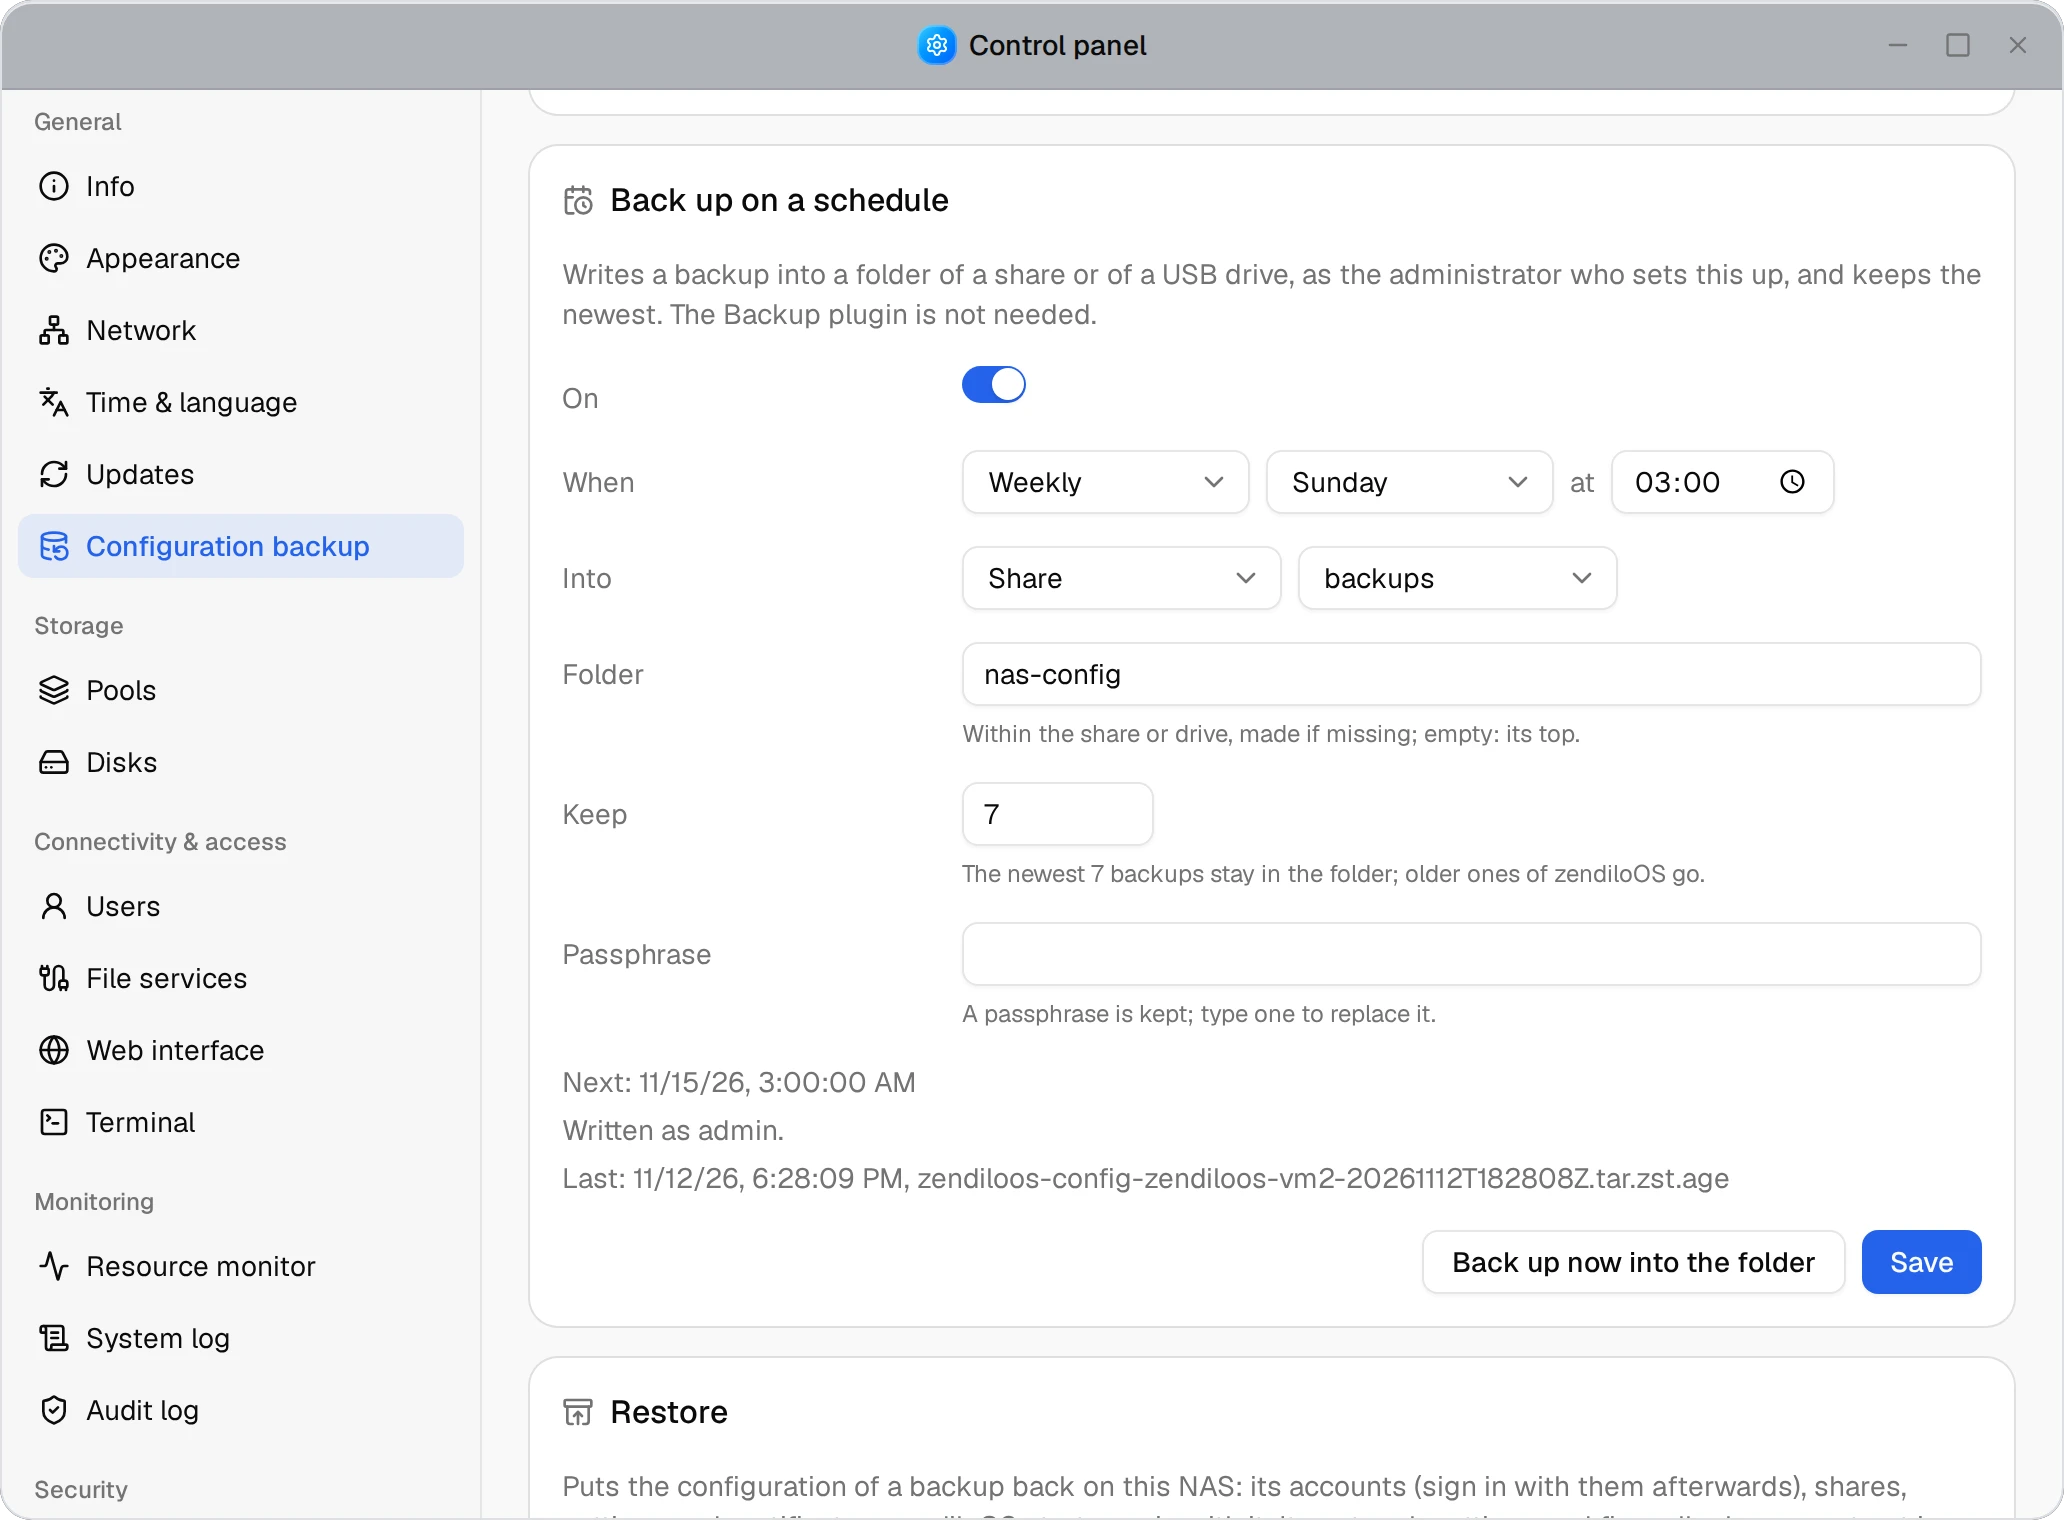
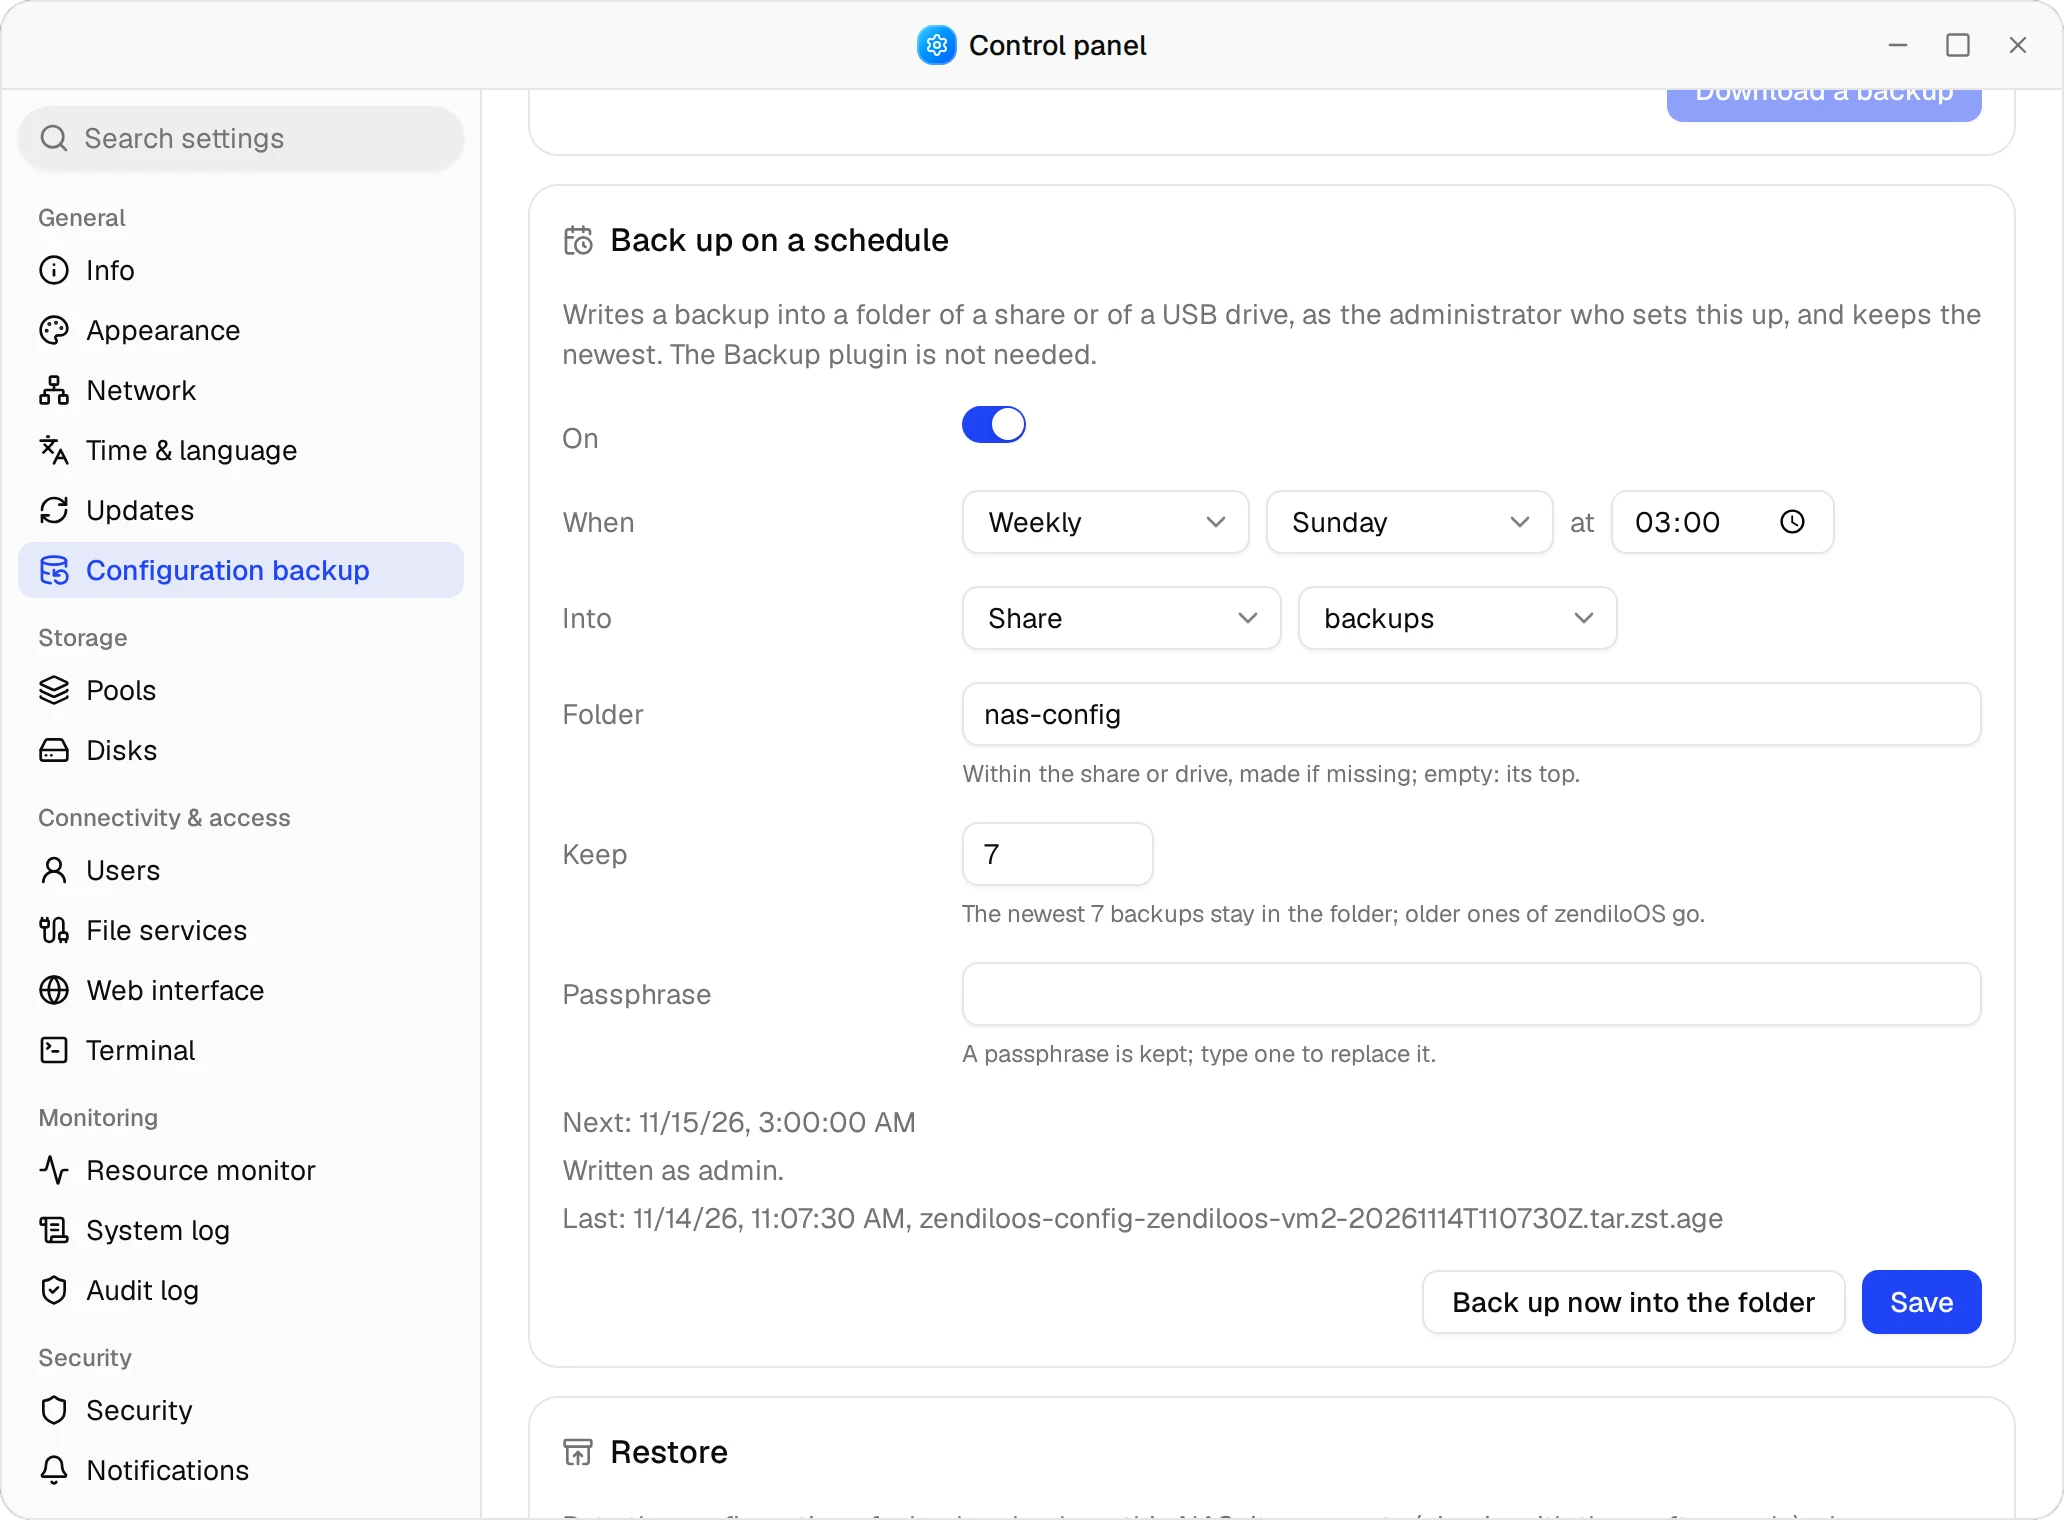
Show the look of 0.5.0 in the remaining screenshots too
Virtual machines and a VM's console, the backup tasks and a restore, the
configuration backup and a folder's permissions are taken again from
0.5.0, with their demo data made anew and removed afterwards. Every
screenshot of the site now shows the released version.

diff --git a/tools/screenshots-needed.md b/tools/screenshots-needed.md
@@ -26,7 +26,7 @@ alt text is in `shots` of both `src/i18n` files.
 With the look of 0.5.0: solid windows, the display face in titles, the
 monospaced one in names, quiet states.
 
-| Image | View | Demo data |
+| Image | View | Demo data, removed again afterwards |
 | --- | --- | --- |
 | `hero` | the desktop, Files on `documents` in the list view, 900 × 738 at 112, 36 so the widgets stay beside it | as the machine is; notifications marked read |
 | `files` | Files, the share `documents` in the grid view | as the machine is |
@@ -35,23 +35,16 @@ monospaced one in names, quiet states.
 | `apps` | Apps → All apps | as the machine is |
 | `docker` | Docker → Containers | as the machine is: Homarr, Uptime Kuma, notes |
 | `updates` | Control panel → Updates | as the machine is: 0.5.0 from the stable channel, right after its update and a restart |
+| `shares` | Files → `documents` → Properties → Permissions | accounts Anna and Ben Berger in the group `family` (read and write), a group `guests` (read) |
+| `vms` | Virtual machines → Machines | VMs `web` (running the Alpine ISO), `windows11` (TPM, Secure Boot, disks of 32 and 8 GiB), `homeassistant`, beside the machine's own `alpine` |
+| `vm-console` | the console of `web`, 1024 × 720 | `top` after signing in as root |
+| `backup` | Backup → Tasks | a share `backups` on `apps`, a USB drive `BACKUP` (an ext4 image of 2 GiB plugged in through `vm.sh removable-attach`), three tasks run once; the folders they write into made first |
+| `backup-restore` | Backup → Restore | the media task's version, only `Movies` chosen |
+| `config-backup` | Control panel → Configuration backup, scrolled to the schedule | weekly on Sunday at 03:00 into `backups/nas-config`, keep 7, run once |
 
 A window is given its place and size through `zendiloos.desktop.<account>`
 in the browser's storage before the page is loaded, which also opens it on
 the page wanted, so no shot depends on where a window was left.
-
-## Still with the look of 0.5.0~rc.1 (test VM 2, 2026-11-12)
-
-These need their demo data made anew, and removed again afterwards.
-
-| Image | View | Demo data |
-| --- | --- | --- |
-| `vms` | Virtual machines → Machines | VMs `web` (running the Alpine ISO), `windows11` (TPM, Secure Boot, two disks), `homeassistant`, beside the machine's own `alpine` |
-| `vm-console` | the console of `web` | `top` after signing in as root |
-| `backup` | Backup → Tasks | share `backups` on `apps`, a USB drive `BACKUP` (an ext4 image plugged in through `vm.sh removable-attach`), three tasks run once |
-| `backup-restore` | Backup → Restore | the media task's version, only `Movies` chosen |
-| `config-backup` | Control panel → Configuration backup | weekly on Sunday at 03:00 into `backups/nas-config`, keep 7, run once |
-| `shares` | Files → `documents` → Properties → Permissions (from 0.2.0) | groups `family` and `guests`, accounts Anna and Ben Berger |
 
 ## Still needed
 
